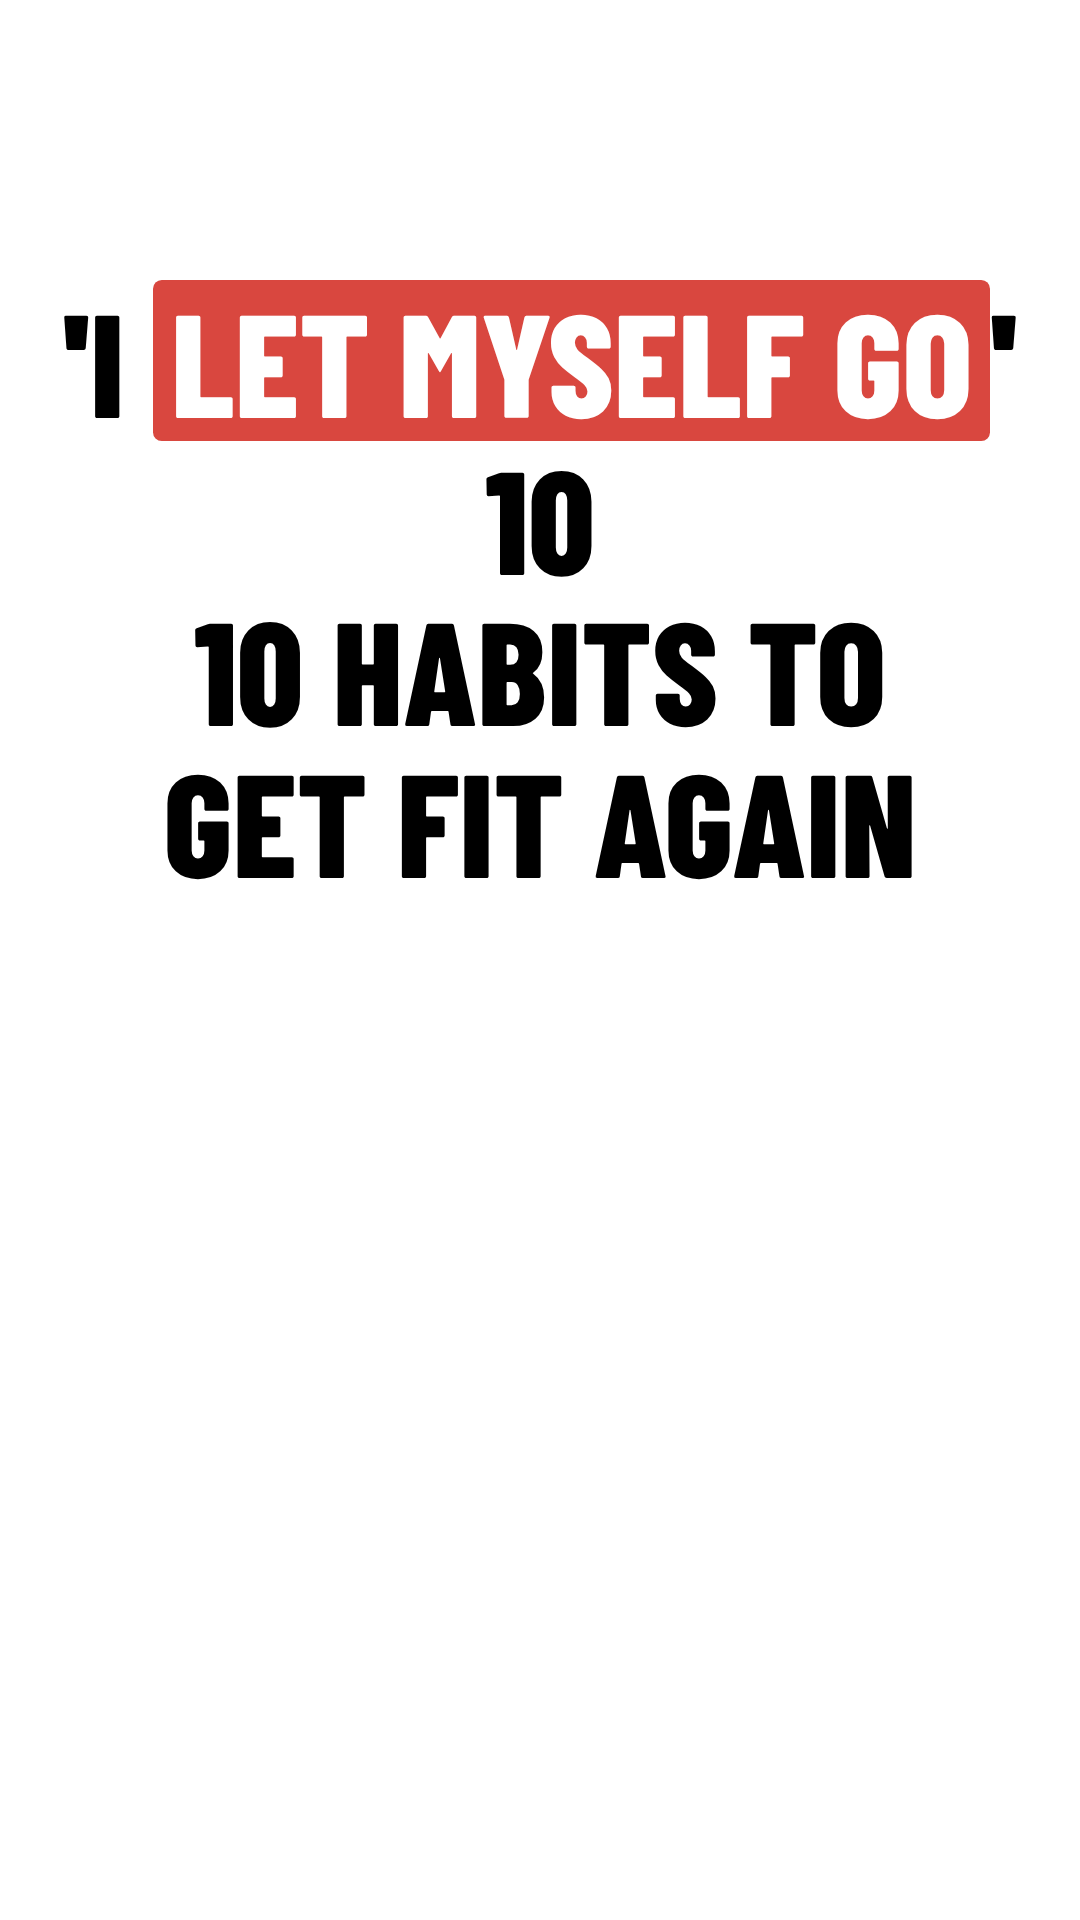
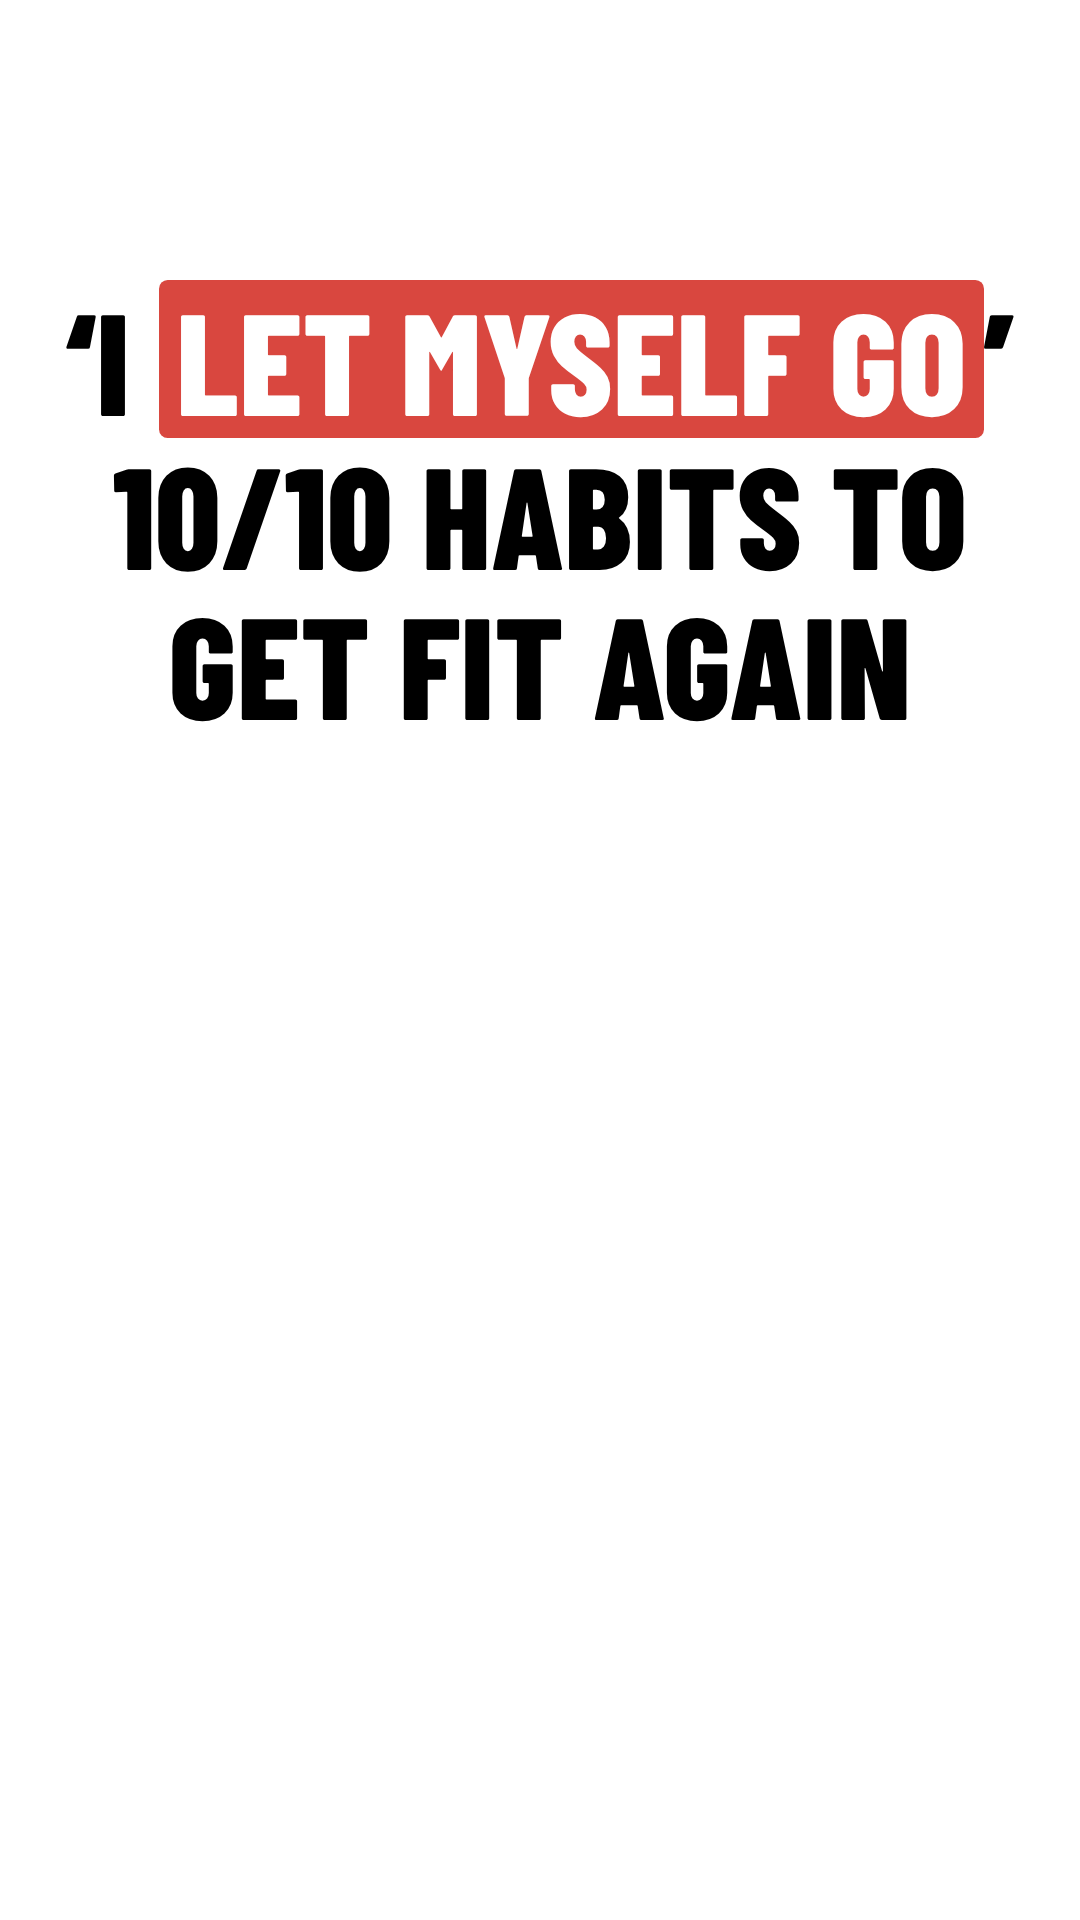
make_title.js: 10/10 is not a line break; again covers and overlays re-rendered
Claude-Session: https://claude.ai/code/session_01C5bFwjsy7wubJR84HAMdDJ

Changed region(s): [[0.0611, 0.1562, 0.9472, 0.4688], [0.3667, 0.1875, 0.3972, 0.2188]]

diff --git a/motion/title-cards/make_title.js b/motion/title-cards/make_title.js
@@ -5,7 +5,7 @@ const path = require('path'); const { chromium } = require('playwright');
 const a = process.argv.slice(2); const out = a[0], title = a[1];
 const opt = k => { const i = a.indexOf('--' + k); return i > 0 ? a[i + 1] : '' };
 if (!out || !title) { console.error('usage: node motion/title-cards/make_title.js <out prefix> "L1 / L2 / (L3)" --red WORD [--blue WORD]'); process.exit(1); }
-const l = title.split('/').map(s => s.trim()).join('|');
+const l = title.split(/\s+\/\s+/).map(s => s.trim()).join('|');   // P236: 10/10 inside a line is not a break
 (async () => {
   const b = await chromium.launch();
   for (const [mode, w, h, suffix] of [['card', 1920, 1080, '-title-16x9.png'], ['overlay', 1080, 1920, '-overlay-9x16.png']]) {
